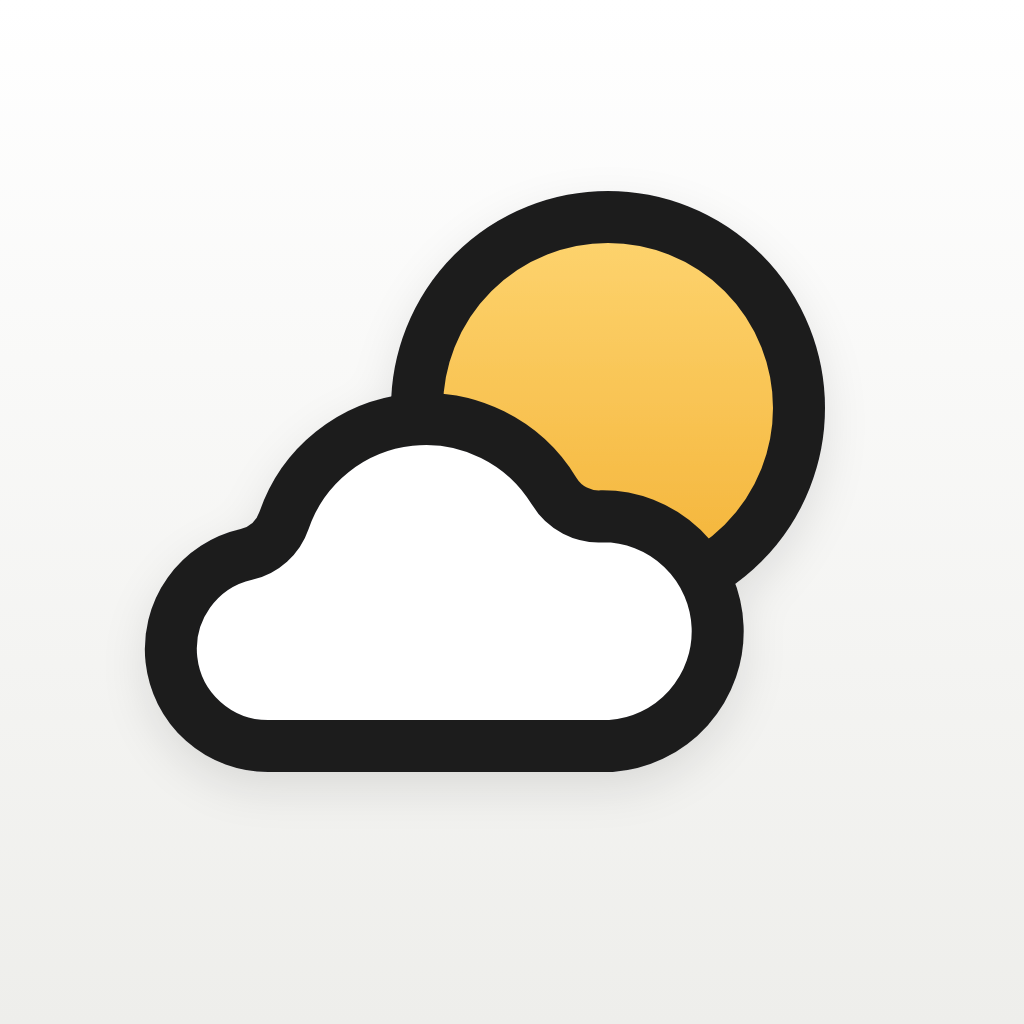
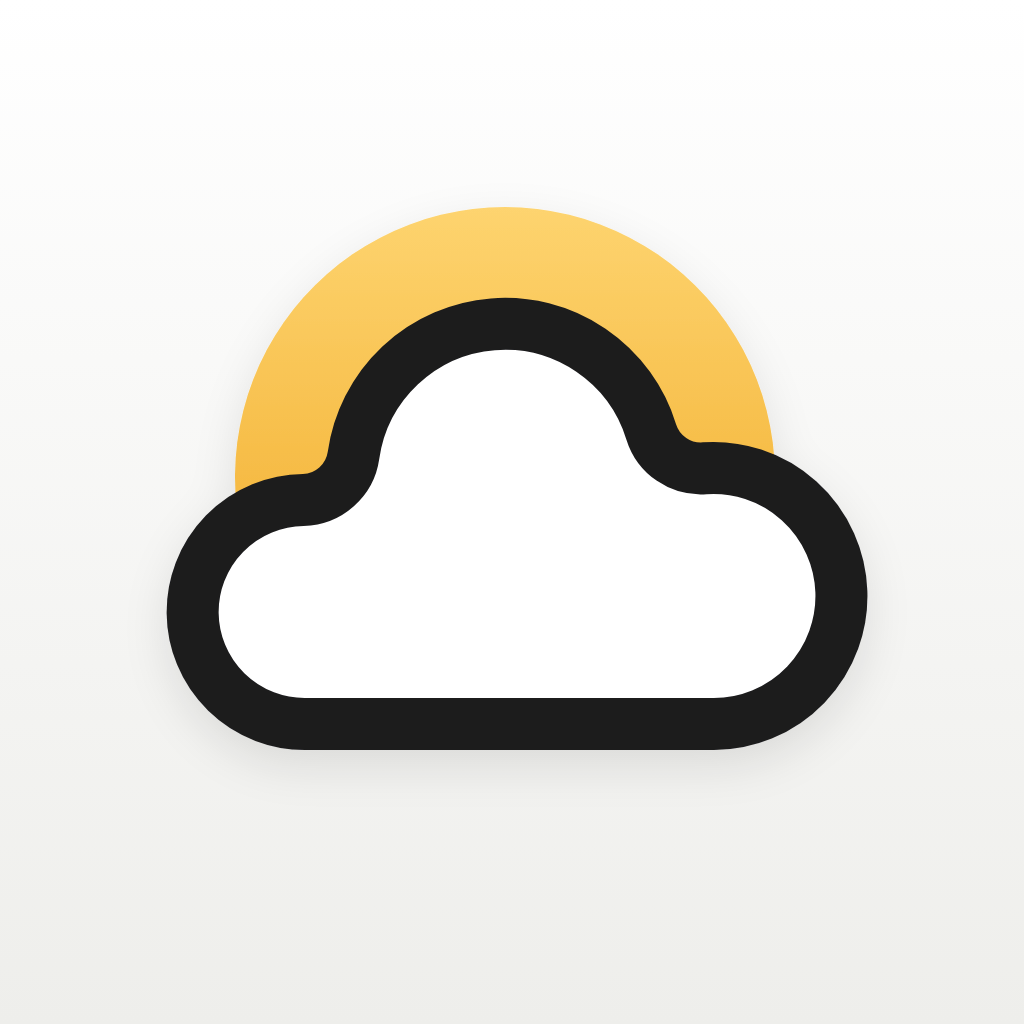
Redraw Halo and Streak with a detail of their own
Halo: the sun sits right behind the cloud, concentric with its top lobe,
and only a ring of it shows (no longer an enlarged cloud.sun).
Streak: a green band runs in from the page's left edge across the
calendar and ends in a round cap holding today's check, so the accent
itself says "consecutive days" (no longer calendar.badge.checkmark).

Both passed an independent review and render with 0 FAIL.

Claude-Session: https://claude.ai/code/session_01Ryqgs4mNU62SDVVXv1wPwj

Changed region(s): [[0.125, 0.1875, 0.875, 0.7812]]

diff --git a/references/style.md b/references/style.md
@@ -9,7 +9,7 @@
 1. **一条线、一块色。** 每枚图标只有两样东西：一组粗细统一的墨线，加一个强调色色块。不加第三样。宽度不超过 2 倍线宽的实心小块（比如二维码的定位块）算作墨线。
 2. **明确：一眼看懂。** 画具体的物件（秒表、纸页、相框、云），简化到能用 3–7 段线画出来。主屏上扫一眼就知道这是什么 app。
 3. **线条统一。** 所有线一样粗，圆头、圆角拐弯，不用粗细变化表达层次。
-4. **颜色只点一处。** 强调色填在物件里最有意义的那一块：计时的进度、天气的太阳、扫码的扫描线。色块最好是物件本身的一部分，也可以就是第二个物件（词典的书签）。只有「结果」本身是重点时（打卡的勾），才用一个圆形徽章托住它。
+4. **颜色只点一处。** 强调色填在物件里最有意义的那一块：计时的进度、天气的太阳、扫码的扫描线。色块最好是物件本身的一部分，也可以就是第二个物件（词典的书签）。只有「结果」本身是重点时（打卡的勾），才让色块托住它，勾标 `on-accent` 躺在色块里。托住它的色块最好自己也有含义（Streak 的连续色带），实在没有再用圆形徽章。
 5. **圆角。** 矩形和外轮廓上没有尖角。round join 只磨圆拐角的外侧，折线内侧留下的尖角是允许的；色块和外轮廓上的凹角，用 r ≥ 24 的反向圆弧过渡（见 `examples/ledgerly.svg`）。
 6. **几何。** 只用圆、圆角矩形、胶囊、圆弧、直线和它们的组合，每个形都能说出尺寸，落在关键线上。
 7. **轻立体。** 背景上亮下暗，色块上浅下深，主体下面一层极淡的投影。投影只落在外轮廓外面，像放在桌上的一张纸，而不是 3D 物体。
@@ -51,8 +51,8 @@
 色块的每一段边都必须是下面三种之一，否则会露出一条细边：
 
 1. **压在线下**：边缘正好落在线的中心线上。
-2. **在线围出的区域里**：整个色块离所有线的描边外沿 ≥ 40（Streak 的徽章）。
-3. **自由边**：不压在线下的那段边由直线或整段圆弧组成，两端落在线的中心线上，离其他线 ≥ 40（Tide 扇形的两条半径、Margin 色条的右边）。
+2. **在线围出的区域里**：整个色块离所有线的描边外沿 ≥ 40（比如一枚圆形徽章）。
+3. **自由边**：不压在线下的那段边由直线或整段圆弧组成，两端落在线的中心线上，离其他线 ≥ 40（Tide 扇形的两条半径、Margin 色条的右边、Streak 色带的上下边和圆头、Halo 露在云外的那段圆弧）。自由边从线下伸出时，和线的中心线夹角要 ≥ 60°，否则会留下一道细楔形。
 
 线状色块（`data-accent="line"`）可以从开口处伸出线框，只要离所有线 ≥ 40（QR 的光束）。
 

diff --git a/SKILL.md b/SKILL.md
@@ -20,12 +20,12 @@ description: Design app icons as production SVG in Rian's house style, which is 
 | 示例 | 画了什么 | 可借的技巧 |
 |---|---|---|
 | `tide.svg` 专注计时 | 秒表，25 分钟的扇形 | 圆角扇形用 `scripts/shapes.py sector` 生成；顶部凸起时的光学居中 |
-| `halo.svg` 天气 | 云挡住太阳的一角 | 云是填了挖空色的闭合线形，挡住后面的色块 |
+| `halo.svg` 天气 | 太阳藏在云正后方，只露出一圈光环 | 云是填了挖空色的闭合线形，挡住后面的色块；色块和云顶大圆同心，下缘用藏在云里的弦切平，露出的圆弧是自由边，从线下伸出时夹角 ≥ 60° |
 | `margin.svg` 笔记 | 纸页左侧一条色边 | 色条三边压在页面线的中心线上；右边是自由边，两端也落在中心线上 |
 | `qr-scanner.svg` 扫码 | 取景框加扫描光束 | 镂空形状（`data-shape="open"`）直接按最终尺寸画，k = 1；线状色块标 `data-accent="line"` |
 | `image-compressor.svg` 图片压缩 | 相框加两侧向内的箭头 | 组合形状按凸包算大小；主体框画饱满，不比 Tide 显轻 |
 | `ledgerly.svg` 记账 | 饼图抽出一块切片 | 切开的两部分标 `data-part="split"`，用切开的净空；凹角手写反向圆弧 |
-| `streak.svg` 习惯打卡 | 圆形徽章上的勾 | 圆形徽章托住结果；勾在色块里，标 `class="on-accent"` |
+| `streak.svg` 习惯打卡 | 日历页上一条从左边线伸进来的绿色色带，勾在右端圆头里 | 色块本身画出「连续」：左端压在左边线下，表示从页外延续进来；右端是整段半圆，停在页内。勾靠进圆头，左边露出的绿色才读得出是「前面的日子」；勾标 `class="on-accent"` |
 
 ## 工作流程
 

diff --git a/README.md b/README.md
@@ -9,12 +9,12 @@
 | 示例 | 强调色 | 画了什么 |
 |---|---|---|
 | Tide 专注计时 | 珊瑚 | 秒表，25 分钟的进度填色 |
-| Halo 天气 | 黄 | 太阳和云，云挡住太阳的一角 |
+| Halo 天气 | 黄 | 太阳藏在云正后方，只露出一圈光环 |
 | Margin 笔记 | 黄 | 一页笔记，左侧一条高亮色边 |
 | QR Code Scanner | 蓝 | 取景框加扫描线 |
 | Image Compressor | 蓝 | 相框和两侧向内收的箭头 |
 | Ledgerly 记账 | 绿 | 饼图，抽出一块填色的切片 |
-| Streak 习惯打卡 | 绿 | 日历页上一枚打勾的圆形徽章（最初由一个只读过 skill 的新 Claude 画出，用来验证 skill；后来按评审调小了尺寸、加大了留白） |
+| Streak 习惯打卡 | 绿 | 日历页上一条从左边线伸进来的绿色色带（连续的日子），右端圆头里打勾（今天） |
 
 ## 姊妹 skill：App UI 主题
 
